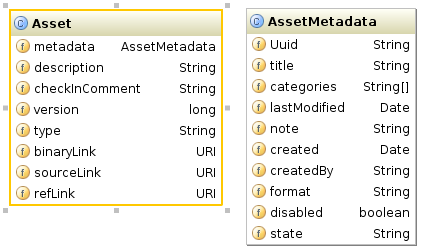
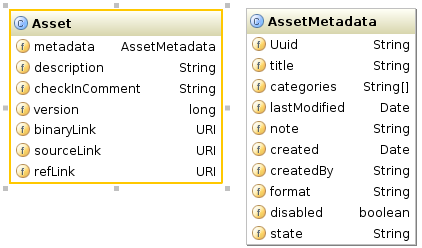
remove Asset.type as this property is never used

Changed region(s): [[0.0, 0.4798, 0.5545, 0.875], [0.4313, 0.5081, 0.5237, 0.5645], [0.4621, 0.5927, 0.5237, 0.6492]]

diff --git a/guvnor/guvnor-webapp-core/src/main/java/org/drools/guvnor/server/jaxrs/jaxb/Asset.java b/guvnor/guvnor-webapp-core/src/main/java/org/drools/guvnor/server/jaxrs/jaxb/Asset.java
@@ -31,8 +31,6 @@ public class Asset {
     
     private long version;
 
-    private String type;
-
     private URI binaryLink, sourceLink, refLink;
 
     @XmlElement
@@ -51,15 +49,6 @@ public class Asset {
 
     public void setSourceLink(URI sourceLink) {
         this.sourceLink = sourceLink;
-    }
-
-    @XmlElement()
-    public String getType() {
-        return type;
-    }
-
-    public void setType(String type) {
-        this.type = type;
     }
 
     @XmlElement()

diff --git a/guvnor/guvnor-webapp-core/src/main/java/org/drools/guvnor/server/jaxrs/Translator.java b/guvnor/guvnor-webapp-core/src/main/java/org/drools/guvnor/server/jaxrs/Translator.java
@@ -73,7 +73,6 @@ public class Translator {
 
         Asset ret = new Asset();
         ret.setMetadata(metadata);
-        ret.setType(a.getType());
         ret.setCheckInComment(a.getCheckinComment());
         ret.setDescription(a.getDescription());
         ret.setRefLink(uriInfo.getBaseUriBuilder()
